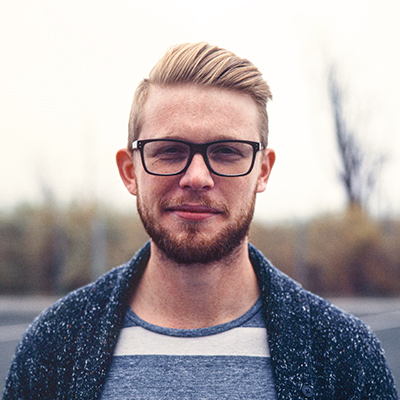
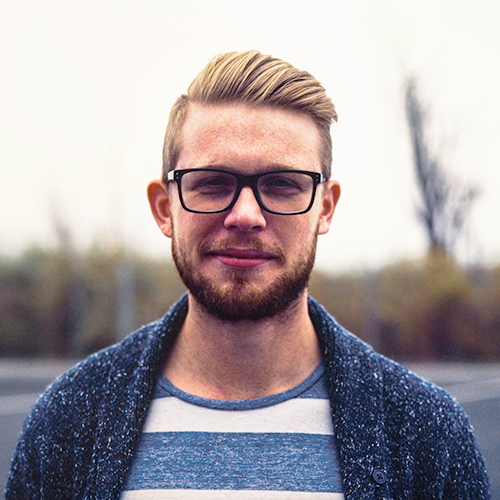
updated image to fix area, updated headerCard to fit same space as webDev and photo cards below it

diff --git a/src/components/HeaderCard.js b/src/components/HeaderCard.js
@@ -6,7 +6,7 @@ import { useSelector } from "react-redux";
 
 const useStyles = makeStyles((theme) => ({
   portrait: {
-    maxWidth: "95%",
+    maxWidth: "100%",
     borderRadius: "7px",
     marginBottom: "20px",
   },
@@ -24,19 +24,15 @@ const HeaderCard = (props) => {
   //   console.log(headerImage.src);
   //   console.log(headerImage.title);
   return (
-    <Grid item xs={12}>
-      <div className={classes.root}>
-        <Grid container spacing={3}>
-          <Grid item xs={12} sm={6}>
-            <img className={classes.portrait} src={portrait} alt='portrait' />
-          </Grid>
-          <Grid item xs={12} sm={6}>
-            <h3 style={{ marginBottom: "20px" }}>{headerTitle}.</h3>
-            <h3 style={{ marginBottom: "20px" }}>edens.zac@gmail.com</h3>
-            <Typography paragraph> {headerParagraph}</Typography>
-          </Grid>
-        </Grid>
-      </div>
+    <Grid container spacing={3}>
+      <Grid item xs={12} sm={6}>
+        <img className={classes.portrait} src={portrait} alt='portrait' />
+      </Grid>
+      <Grid item xs={12} sm={6}>
+        <h3 style={{ marginBottom: "20px" }}>{headerTitle}.</h3>
+        <h3 style={{ marginBottom: "20px" }}>edens.zac@gmail.com</h3>
+        <Typography paragraph> {headerParagraph}</Typography>
+      </Grid>
     </Grid>
   );
 };

diff --git a/src/page/NavBar.js b/src/page/NavBar.js
@@ -26,9 +26,8 @@ import InstagramIcon from "@material-ui/icons/Instagram";
 import TwitterIcon from "@material-ui/icons/Twitter";
 import FileCopyIcon from "@material-ui/icons/FileCopy";
 import { Route, Switch } from "react-router-dom";
-import AboutHeader from "./AboutHeader";
-import Photography from "./Photography";
-import Coding from "./Coding";
+import Home from "./Home";
+
 import colors from "../components/colors";
 import { useDispatch, useSelector } from "react-redux";
 import resume from "../assets/Edens_Resume.pdf";
@@ -319,9 +318,7 @@ export default function NavBar() {
         <div className={classes.toolbar} />
 
         <Switch>
-          <Route exact path='/' component={AboutHeader} />
-          <Route exact path='/photography' component={Photography} />
-          <Route exact path='/coding' component={Coding} />
+          <Route exact path='/' component={Home} />
         </Switch>
       </main>
     </div>

diff --git a/src/page/Home.js b/src/page/Home.js
@@ -23,7 +23,7 @@ const useStyles = makeStyles((theme) => ({
   },
 }));
 
-const AboutHeader = () => {
+const Home = () => {
   const classes = useStyles();
   const changeWebState = useSelector((state) => state.changeWebState);
   const changePhotoState = useSelector((state) => state.changePhotoState);
@@ -42,4 +42,4 @@ const AboutHeader = () => {
   );
 };
 
-export default AboutHeader;
+export default Home;
